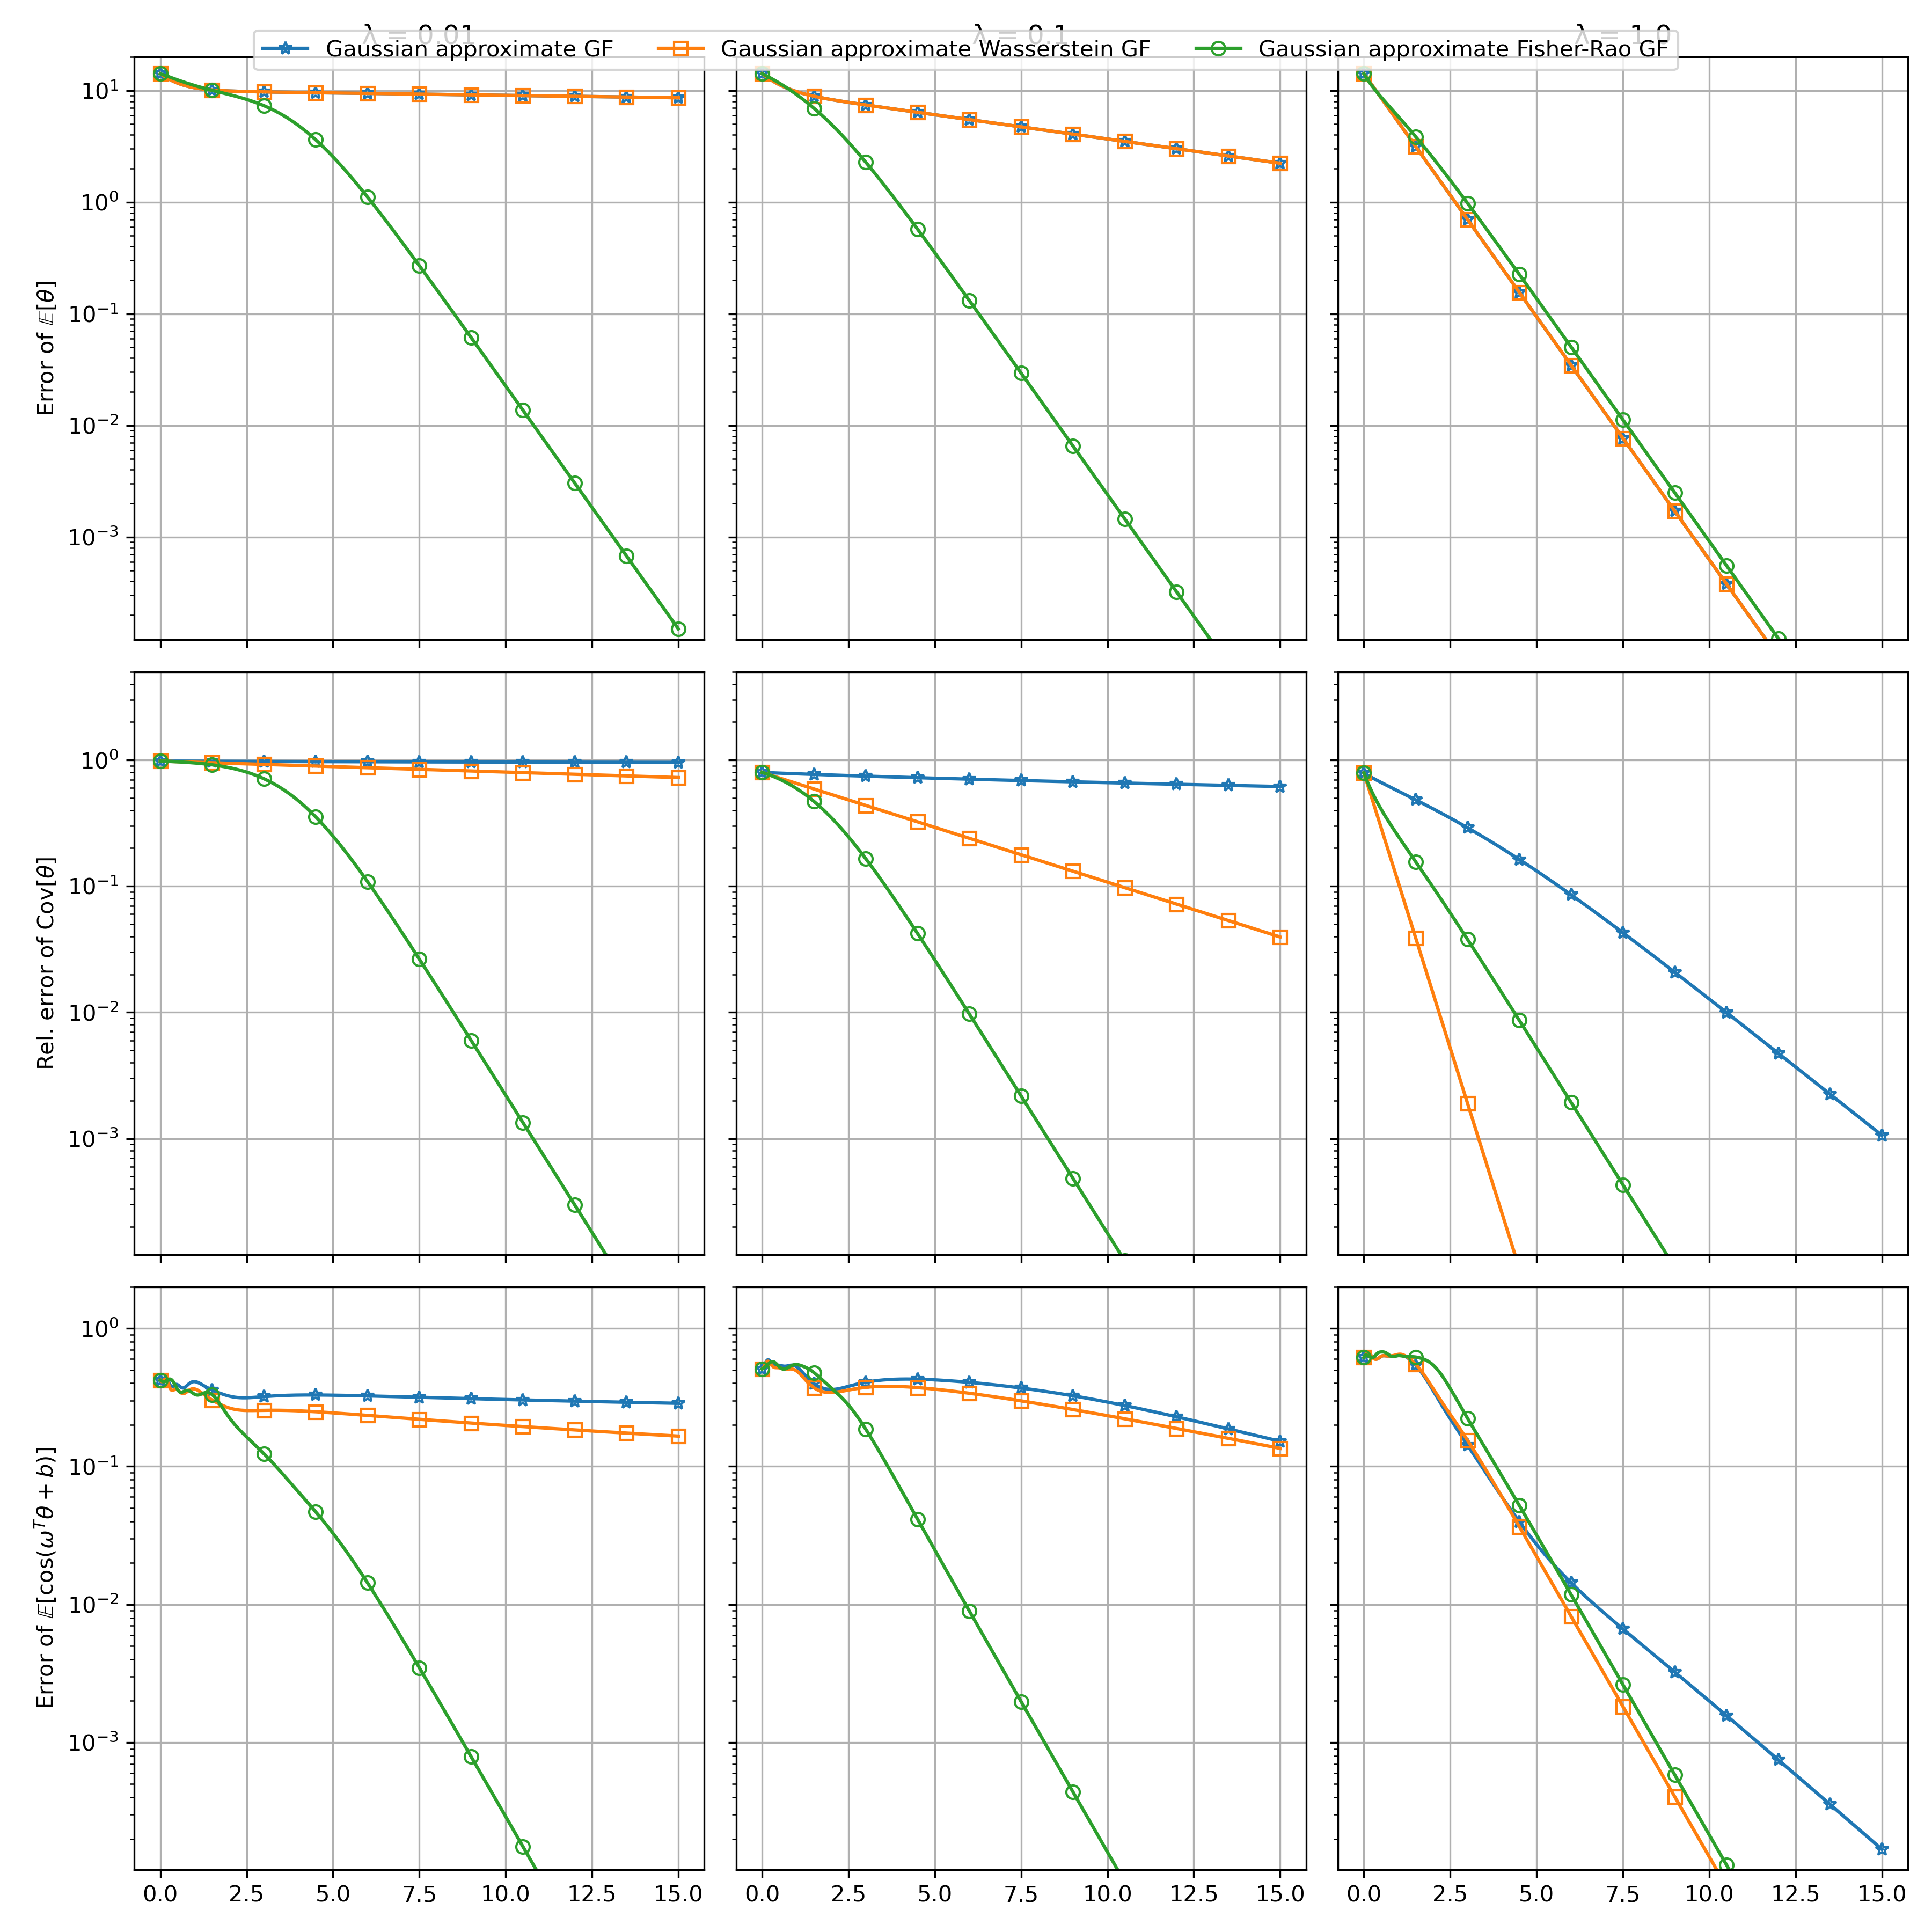
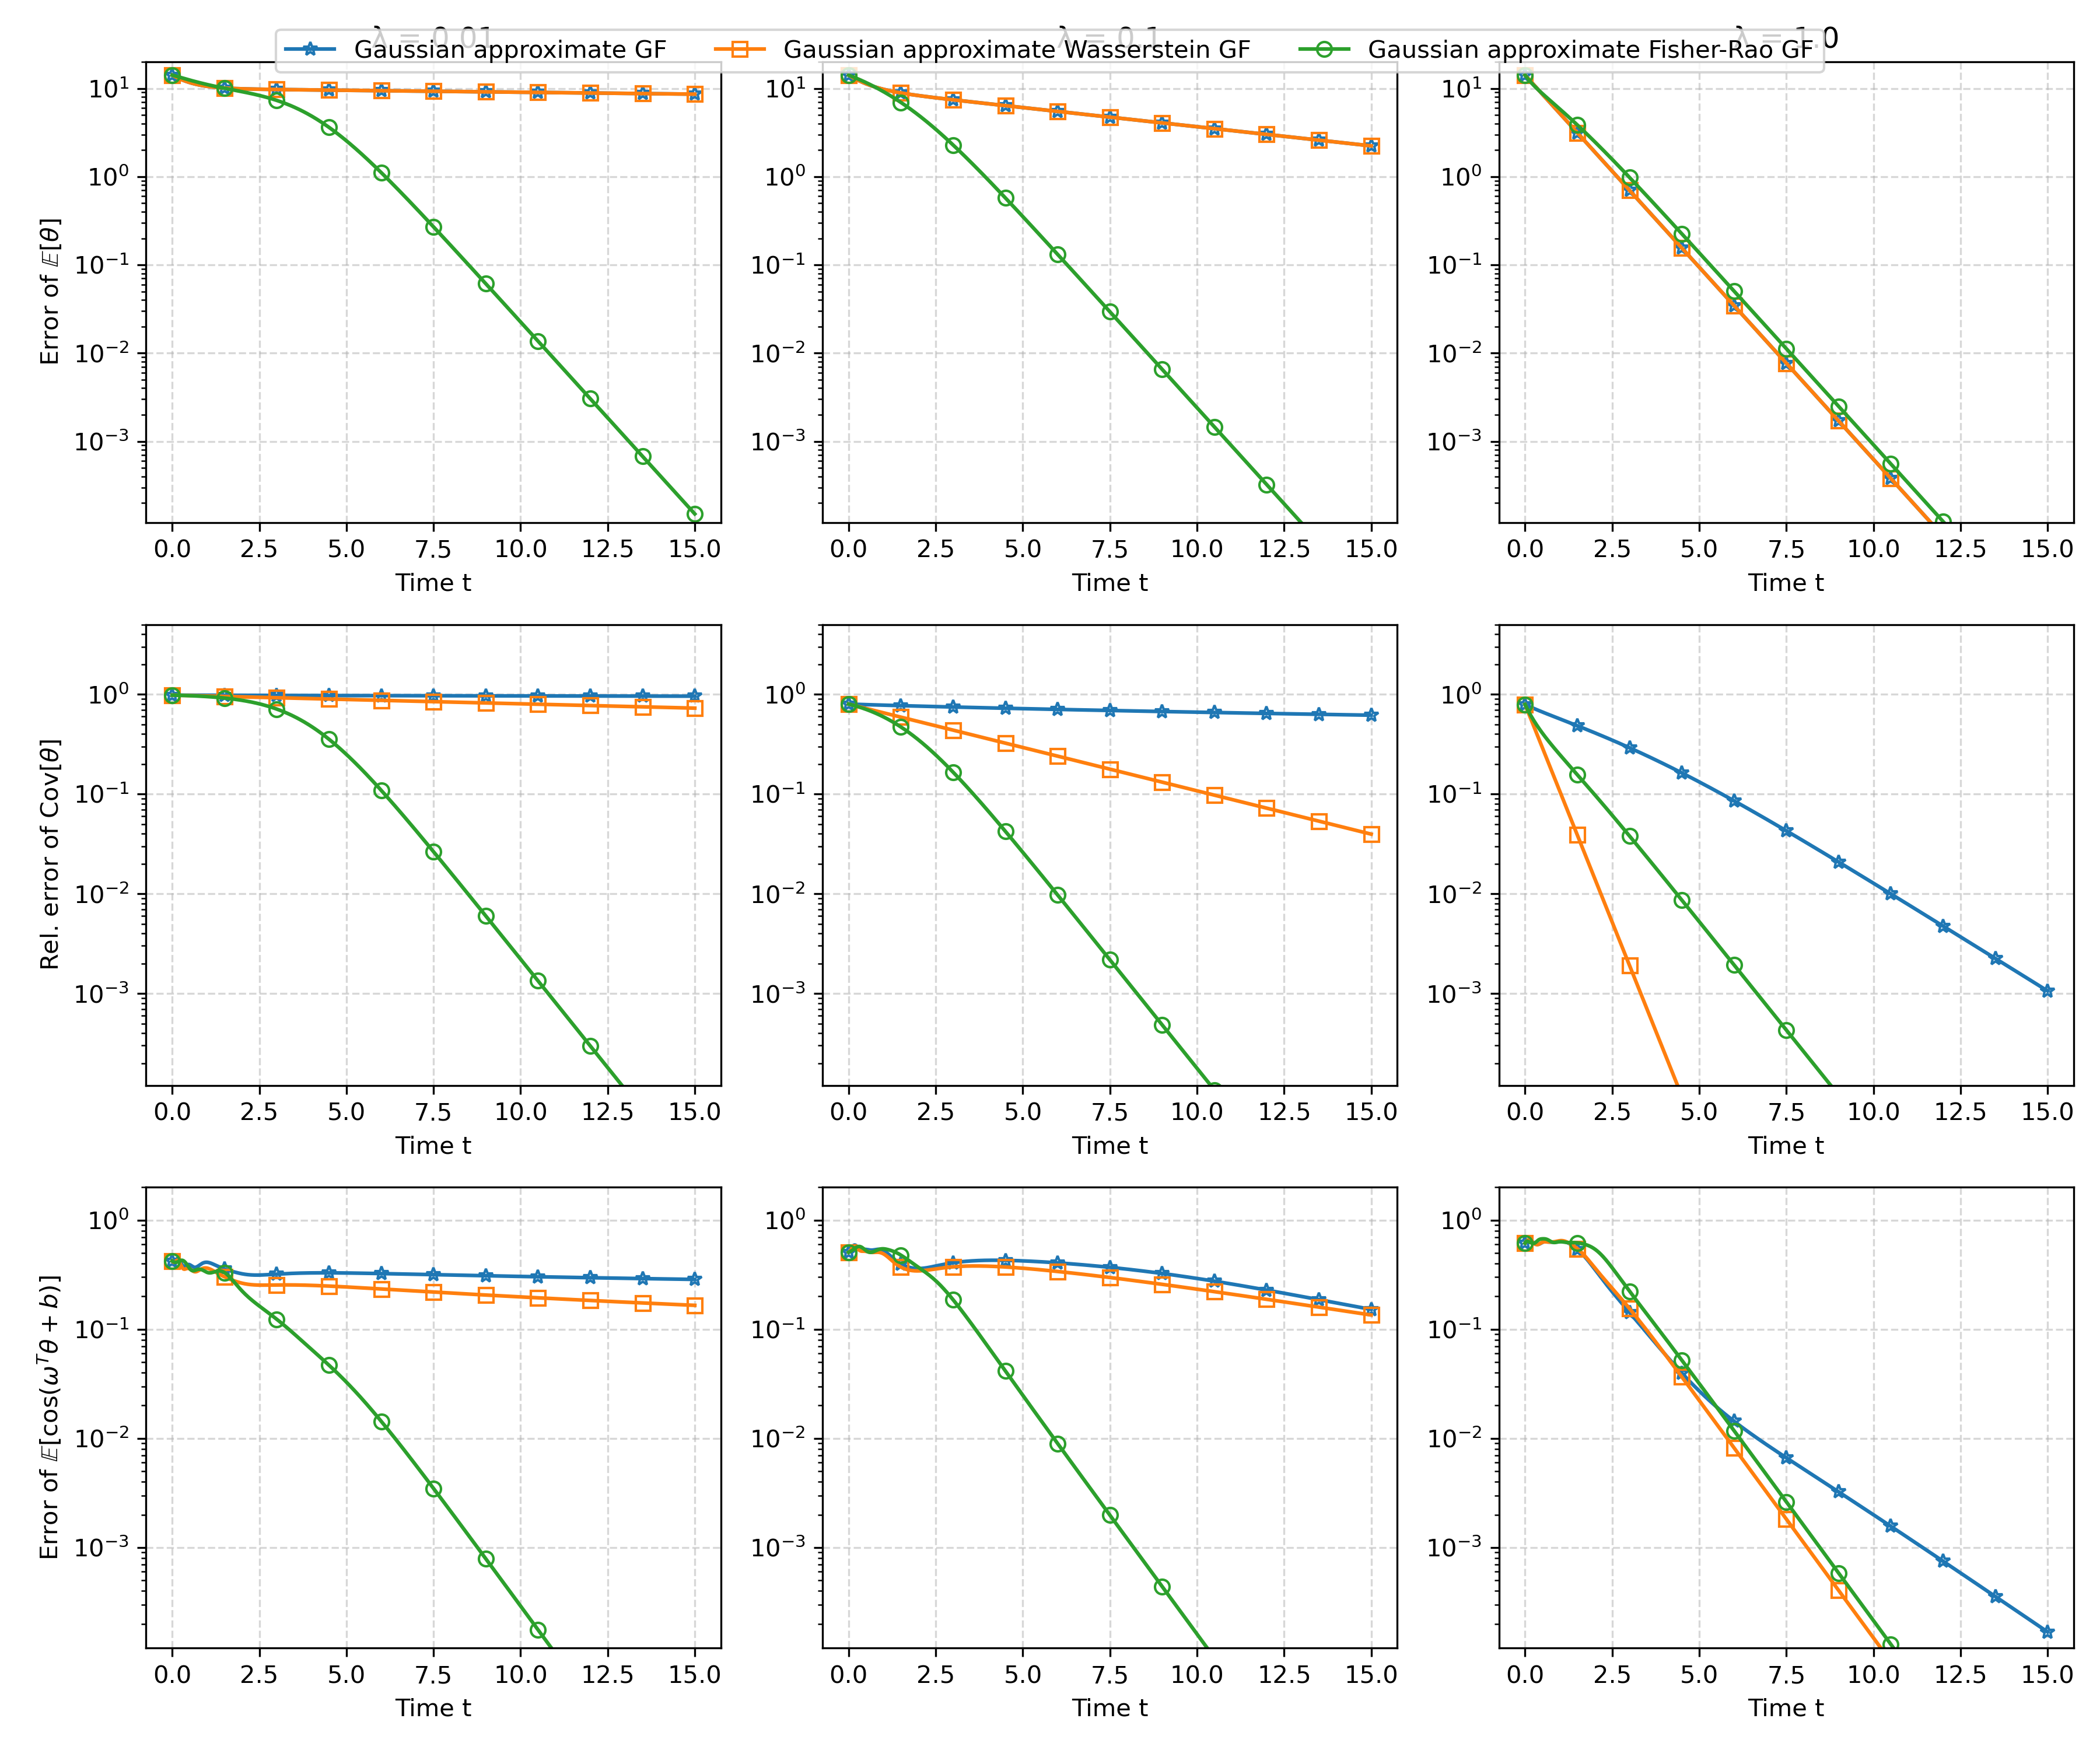
figure_guassian_gd_converge

diff --git a/Proj复现/code/一类问题+高斯近似（改完初始值和fisher-rao的dm更新）.py b/Proj复现/code/一类问题+高斯近似（改完初始值和fisher-rao的dm更新）.py
@@ -12,7 +12,7 @@ def residual(method_type, m_oo, C_oo, m, C):
     if method_type == "gradient_descent":          # 欧几里得 GF (4.32)
         dm = -np.linalg.solve(C_oo, m - m_oo)
         dC = 0.5 * np.linalg.inv(C) - 0.5 * np.linalg.inv(C_oo)
-    elif method_type == "natural_gradient_descent":  # Fisher-Rao GF (4.18) 按照用户原代码
+    elif method_type == "natural_gradient_descent":  # Fisher-Rao GF (4.18)
         dm = - C @ np.linalg.solve(C_oo, m - m_oo)
         dC = C - C @ np.linalg.solve(C_oo, C)
     elif method_type == "wasserstein_gradient_descent":  # Wasserstein GF (4.24)
@@ -41,11 +41,8 @@ def continuous_dynamics(method_type, m_oo, C_oo, m0, C0, dt, n_steps):
 # ----------------------------- 主程序 -----------------------------
 np.random.seed(42)
 N_θ = 2
-# 注意：原用户 Julia 代码中 m0=[1,1], C0=4I，与论文不同，但为了复现其代码，保留
 m0 = np.array([10.0, 10.0])
 C0 = np.diag([0.5, 2.0])
-# 若需按论文设置，取消下一行注释
-# m0, C0 = np.array([10.0,10.0]), np.diag([0.5,2.0])
 
 ϵs = [0.01, 0.1, 1.0]
 dt = 5e-3
@@ -56,20 +53,21 @@ n_proj = 20
 omega = np.random.randn(n_proj, N_θ)
 b = np.random.uniform(0, 2*np.pi, n_proj)
 
-fig, axes = plt.subplots(3, 3, figsize=(12, 12), sharex=True, sharey='row')
+# 修改：与“加上新方法后的对数凹粒子.py”保持一致的图像大小和布局
+fig, axes = plt.subplots(3, 3, figsize=(12, 10))  # 原为 12,12，现改为 12,10
+# 取消 sharey='row'，改为手动设置 ylim（已有），以匹配对数凹粒子风格
+# axes 现在是 (3,3) 数组，直接使用
 
 for idx_ϵ, ϵ in enumerate(ϵs):
     m_oo = np.array([0.0, 0.0])
     C_oo = np.diag([1.0, 1.0/ϵ])
 
-    # 计算三种高斯近似方法
     m_gd, C_gd = continuous_dynamics("gradient_descent", m_oo, C_oo, m0, C0, dt, n_steps)
     m_wgd, C_wgd = continuous_dynamics("wasserstein_gradient_descent", m_oo, C_oo, m0, C0, dt, n_steps)
     m_ngd, C_ngd = continuous_dynamics("natural_gradient_descent", m_oo, C_oo, m0, C0, dt, n_steps)
 
     cos_ref = cos_error_estimation_particle(m_oo, C_oo, omega, b)
 
-    # 计算误差
     def compute_errors(m_hist, C_hist):
         mean_err = np.linalg.norm(m_hist - m_oo, axis=1)
         cov_err = np.array([np.linalg.norm(C - C_oo, ord='fro') / np.linalg.norm(C_oo, ord='fro') for C in C_hist])
@@ -101,7 +99,8 @@ for idx_ϵ, ϵ in enumerate(ϵs):
     axes[1, idx_ϵ].set_ylim([1.2e-4, 5e0])
     axes[2, idx_ϵ].set_ylim([1.2e-4, 2e0])
     for j in range(3):
-        axes[j, idx_ϵ].grid(True)
+        axes[j, idx_ϵ].grid(True, linestyle='--', alpha=0.5)
+        axes[j, idx_ϵ].set_xlabel('Time t')
 
 handles, labels = axes[0,0].get_legend_handles_labels()
 fig.legend(handles, labels, loc='upper center', bbox_to_anchor=(0.5, 0.99), ncol=3)